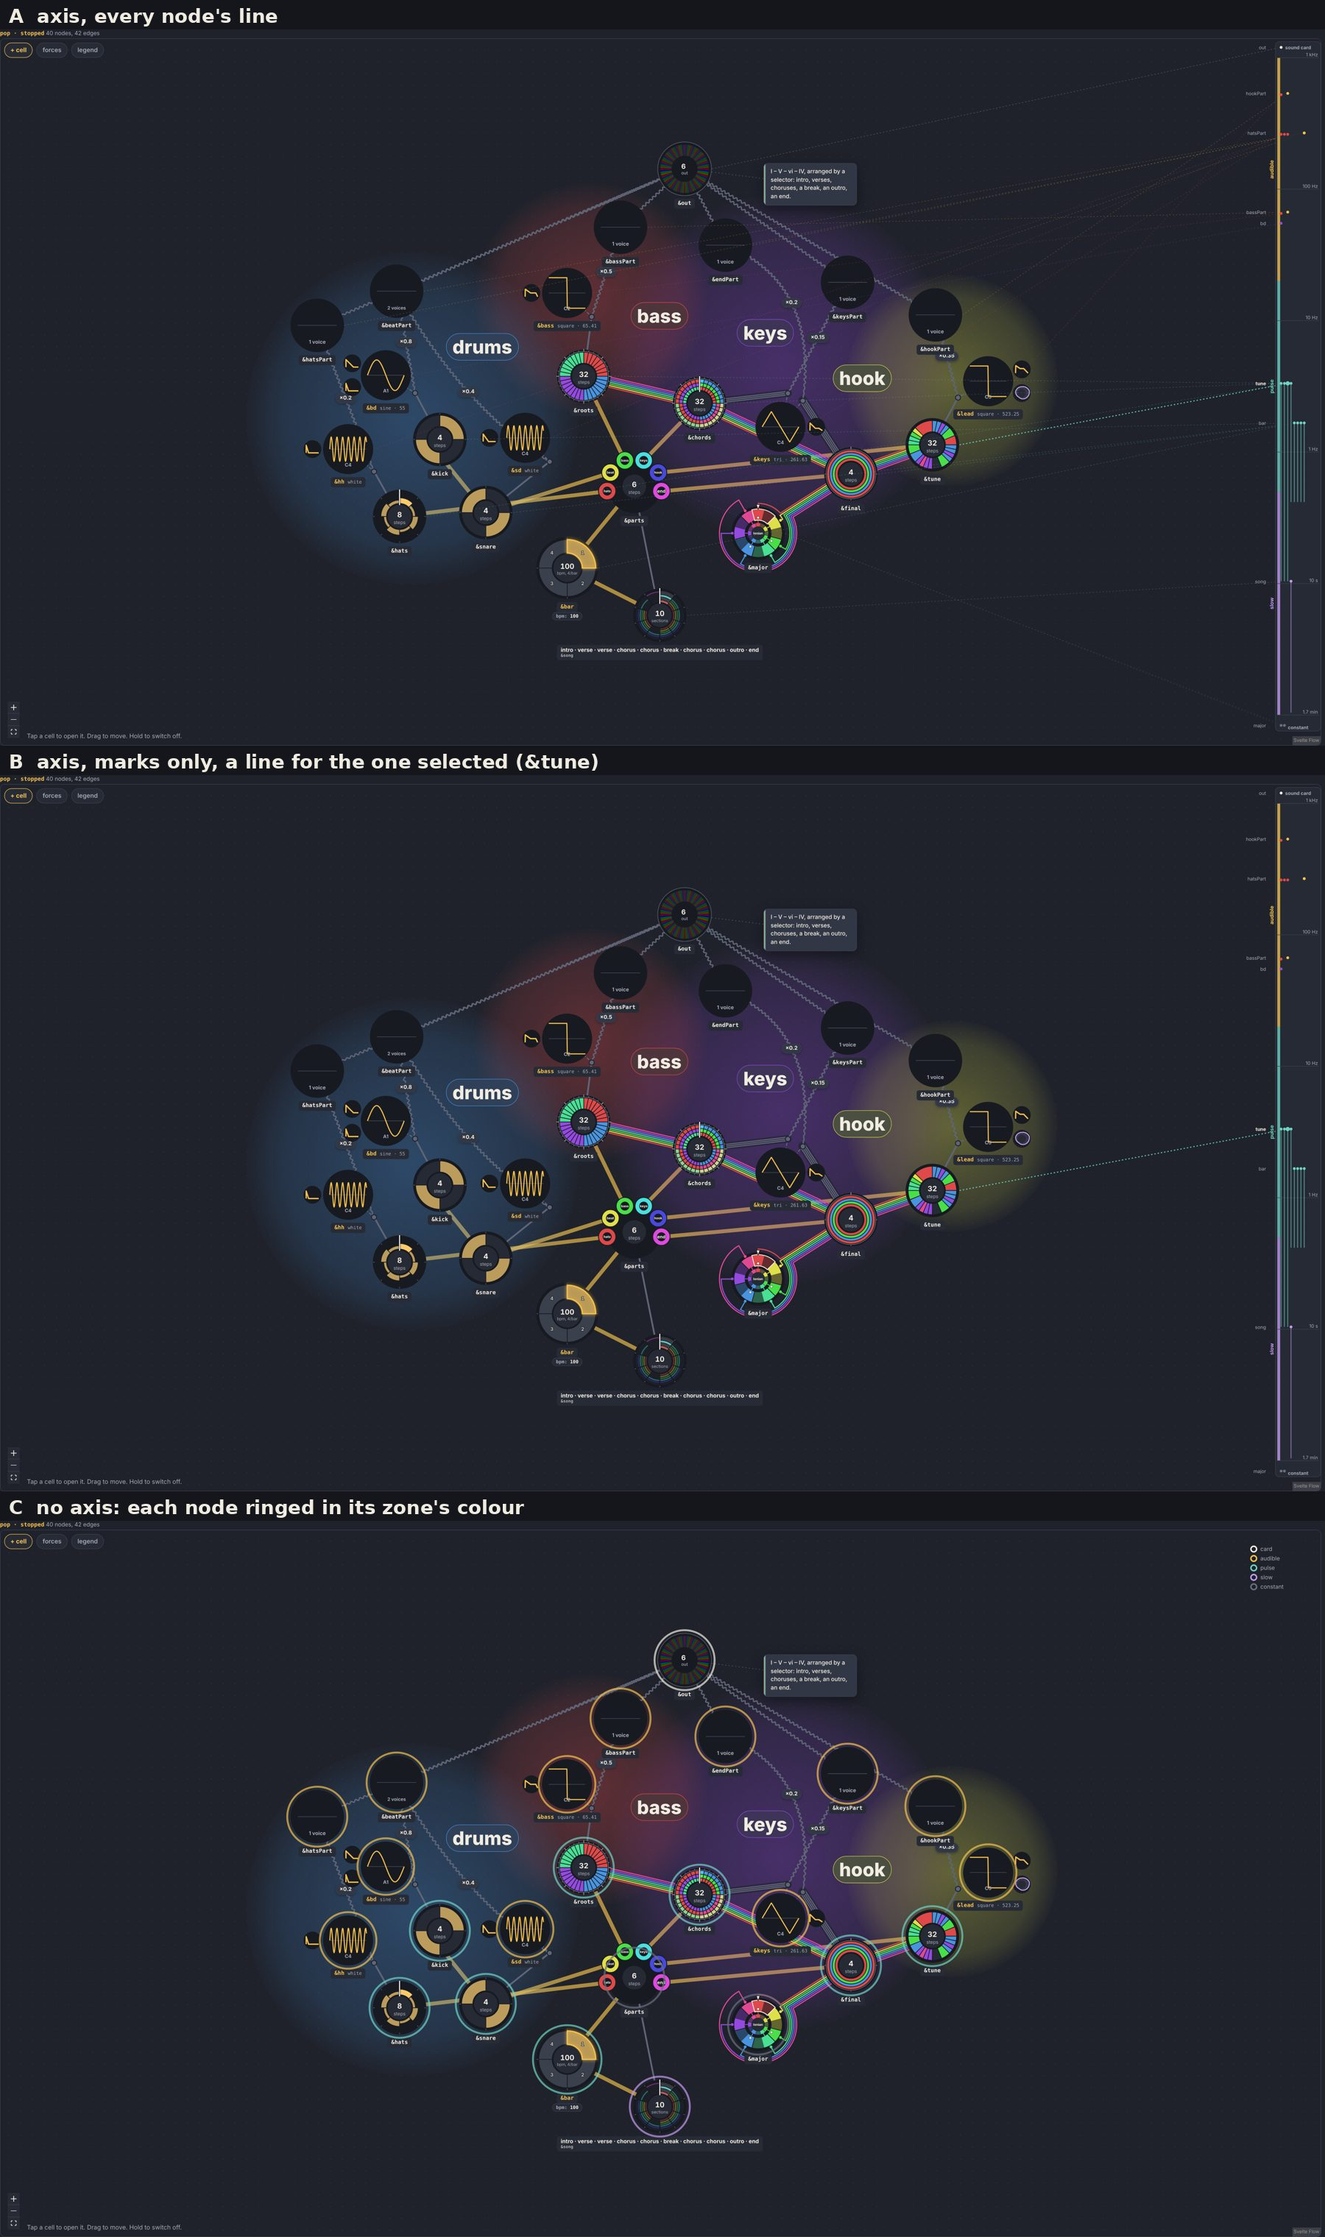
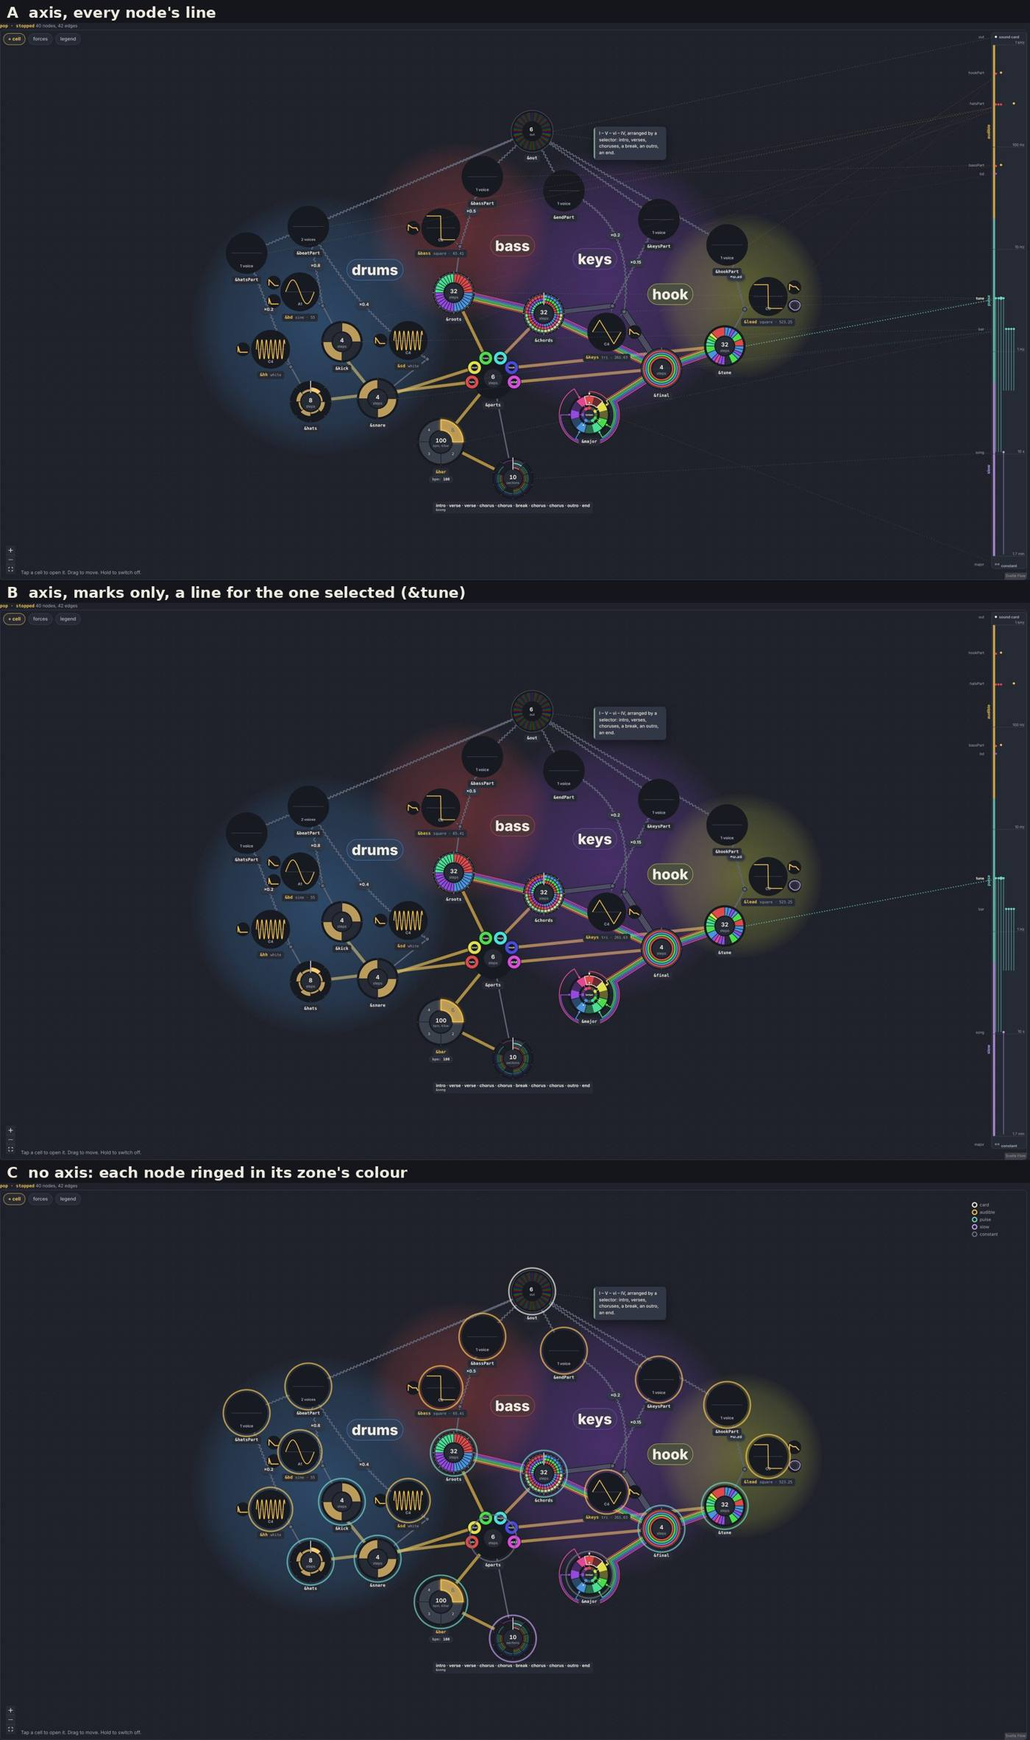
The tower beside the graph, not over it; left of a cell's card while one is open
From the review on #268. The flow's box stops at the strip, so no cell sits under it,
and the graph is framed again as the tower opens or closes; while a cell's card is open
on a wide screen the strip steps to the card's left edge, so the selected cell's line
shows when it is clicked. Also: periods of days read in days, colourOf by a map, the
EXAMPLE_ROWS comment back on its line, the options sheet at 193 KB, and the kit table's
limit documented.

Claude-Session: https://claude.ai/code/session_01WihZC6dgwXsB8pNgM6ywcF

diff --git a/src/ui/TowerAxis.svelte b/src/ui/TowerAxis.svelte
@@ -1,12 +1,20 @@
+<script lang="ts" module>
+  /** The axis's strip (px), and the names beside it: the width the graph leaves the tower. */
+  const AXIS = 96;
+  const NAMES = 64;
+  export const TOWER_WIDTH = AXIS + NAMES;
+</script>
+
 <script lang="ts">
   /**
    * The frequency tower drawn beside the graph (docs/notes/multiscale.md: the picture; lead 2): a logarithmic axis of time
    * at the graph's right edge, its zones marked (the constant, the slow, the pulse, the audible, the sound card), each
-   * node a mark at its height (a bar from its turn to its step), and a line from the cell selected to its mark. The
-   * layout is today's (docs/notes/tower-rows.md: rows by the tower cost crossings): height in the graph means nothing
+   * node a mark at its height (a bar from its turn to its step), and a line from the cell selected to its mark. Beside
+   * the graph (Graph.svelte leaves it `TOWER_WIDTH`), so it hides no cell; while a cell's card is open on a wide screen it
+   * steps to the card's left edge, so the line stays in sight. The layout is today's (docs/notes/tower-rows.md: rows by the tower cost crossings): height in the graph means nothing
    * here, the axis says it.
    */
-  import { useStore } from '@xyflow/svelte';
+  import type { Viewport } from '@xyflow/svelte';
   import type { CompileResult } from '../engine/program';
   import type { GraphModel } from '../engine/graph';
   import { cellId } from '../engine/ids';
@@ -14,11 +22,28 @@
   import { noteColour } from './theme';
   import type { FlowNode } from './types';
 
-  let { model, program, nodes, focus }: { model: GraphModel; program: CompileResult; nodes: readonly FlowNode[]; focus: string | null } = $props();
+  let {
+    model,
+    program,
+    nodes,
+    viewport,
+    focus,
+    carded,
+  }: { model: GraphModel; program: CompileResult; nodes: readonly FlowNode[]; viewport: Viewport; focus: string | null; carded: boolean } = $props();
 
-  const store = useStore();
   let w = $state(0);
   let h = $state(0);
+  let el = $state<HTMLDivElement>();
+  // a cell's card on a wide screen (CellSheet.svelte: 380 px, 16 px from the window's right): where it starts, here
+  let cardLeft = $state(Infinity);
+  $effect(() => {
+    void w;
+    if (!el || !carded || !matchMedia('(min-width: 900px)').matches) {
+      cardLeft = Infinity;
+      return;
+    }
+    cardLeft = innerWidth - 396 - el.getBoundingClientRect().left;
+  });
 
   const spans = $derived(towerSpans(program, model));
   // (a voice's petals, its envelope and the like, hang by it: no mark of their own)
@@ -28,12 +53,12 @@
     const finite = [...spans.values()].flatMap((s) => [s.at, s.lo]).filter(Number.isFinite);
     return { lo: Math.floor(Math.min(0, ...finite)), hi: Math.ceil(Math.max(3, ...finite)) };
   });
-  const AXIS = 96;
   const top = 40;
   const bottom = $derived(h - 64);
   // (the constant just under the axis, the sound card just over it)
   const yOf = (d: number) => (d === -Infinity ? bottom + 22 : d === Infinity ? top - 22 : bottom - ((d - range.lo) / Math.max(1, range.hi - range.lo)) * (bottom - top));
-  const x0 = $derived(w - AXIS);
+  // (the strip at the right edge, or left of the card while one is open over it)
+  const x0 = $derived(Math.max(NAMES, Math.min(w, cardLeft - 8) - AXIS));
 
   const zoneColour = (name: string) => (name === 'slow' ? 'var(--meter-2)' : name === 'pulse' ? 'var(--meter-1)' : 'var(--accent)');
   const zoneOf = (d: number) => (d === -Infinity ? 'constant' : d === Infinity ? 'card' : [...TOWER_ZONES].reverse().find((z) => d >= z.from)!.name);
@@ -50,13 +75,14 @@
     if (hz >= 1000) return `${hz / 1000} kHz`;
     if (hz >= 1) return `${hz} Hz`;
     const s = 1 / hz;
-    return s >= 3600 ? `${+(s / 3600).toPrecision(2)} h` : s >= 60 ? `${+(s / 60).toPrecision(2)} min` : `${s} s`;
+    return s >= 86400 ? `${+(s / 86400).toPrecision(2)} d` : s >= 3600 ? `${+(s / 3600).toPrecision(2)} h` : s >= 60 ? `${+(s / 60).toPrecision(2)} min` : `${s} s`;
   };
   const decades = $derived(Array.from({ length: range.hi - range.lo + 1 }, (_, i) => range.lo + i));
 
   // a voice by its pitch class (the palette's hue), the rest by its zone
+  const cells = $derived(new Map(model.nodes.map((n) => [n.id, n.cell])));
   const colourOf = (id: string, d: number) => {
-    const c = model.nodes.find((n) => n.id === id)?.cell;
+    const c = cells.get(id);
     if (c?.voice && c.freq > 0) return noteColour(((((Math.round(69 + 12 * Math.log2(c.freq / 440)) % 12) + 12) % 12) * 30) % 360);
     const z = zoneOf(d);
     return z === 'constant' ? 'var(--text-faint)' : z === 'card' ? 'var(--text)' : zoneColour(z);
@@ -77,7 +103,7 @@
     return out;
   });
   const marks = $derived.by(() => {
-    const vp = store.viewport;
+    const vp = viewport;
     return nodes.flatMap((n) => {
       const s = spans.get(n.id);
       const name = n.type === 'junction' || petals.has(n.id) ? null : n.id.replace(/^cell:/, '');
@@ -114,16 +140,18 @@
   const focusId = $derived(focus ? cellId(focus) : null);
 </script>
 
-<div class="tower" bind:clientWidth={w} bind:clientHeight={h}>
+<div class="tower" bind:this={el} bind:clientWidth={w} bind:clientHeight={h}>
   {#if w && h}
     <svg width={w} height={h} aria-hidden="true">
+      <!-- (its own ground: the names' gutter and the strip, beside the graph) -->
+      <rect class="ground" x={x0 - NAMES} y="0" width={NAMES + AXIS + Math.max(0, w - x0 - AXIS)} height={h} />
+      <rect class="strip" x={x0} y={top - 34} width={AXIS} height={bottom - top + 68} rx="8" />
       <!-- the line from the cell selected to its mark -->
       {#each marks as m (m.id)}
         {#if m.id === focusId}
           <line class="leader" x1={m.x + m.r} y1={m.y} x2={x0 + 12 + m.lane * 7} y2={m.at} stroke={m.colour} />
         {/if}
       {/each}
-      <rect class="strip" x={x0} y={top - 34} width={AXIS} height={bottom - top + 68} rx="8" />
       {#each zones as z (z.name)}
         <rect x={x0 + 4} y={z.y0} width="6" height={z.y1 - z.y0} fill={z.colour} opacity="0.8" />
         <text class="zone" transform="translate({x0 - 4} {(z.y0 + z.y1) / 2}) rotate(-90)" fill={z.colour}>{z.name}</text>
@@ -138,7 +166,7 @@
         {#if m.lo !== m.at}<line class="span" x1={x0 + 12 + m.lane * 7} x2={x0 + 12 + m.lane * 7} y1={m.lo} y2={m.at} stroke={m.colour} />{/if}
         <circle cx={x0 + 12 + m.lane * 7} cy={m.at} r={m.id === focusId ? 4.5 : 3} fill={m.colour} />
         {#if named.has(m.id) || m.id === focusId}
-          <text class="name" class:focus={m.id === focusId} x={x0 - 20} y={m.at + 4}>{m.name}</text>
+          <text class="name" class:focus={m.id === focusId} x={x0 - 14} y={m.at + 4}>{m.name}</text>
         {/if}
       {/each}
     </svg>
@@ -155,6 +183,9 @@
   svg {
     display: block;
     font-family: var(--font-ui);
+  }
+  .ground {
+    fill: var(--bg);
   }
   .strip {
     fill: color-mix(in oklab, var(--surface) 88%, transparent);

diff --git a/src/ui/Graph.svelte b/src/ui/Graph.svelte
@@ -28,13 +28,15 @@
   import ForcesPanel from './ForcesPanel.svelte';
   import { clusterDisc } from '../layout/clusters';
   import { EXAMPLES } from '../examples';
-  import TowerAxis from './TowerAxis.svelte';
+  import TowerAxis, { TOWER_WIDTH } from './TowerAxis.svelte';
+  import FlowViewport from './FlowViewport.svelte';
+  import type { Viewport } from '@xyflow/svelte';
 
-  // each example's rows' order, chosen when the app was built (tools/examples-index.ts), by its graph's shape
   // (?tower: the tower open from the start, ?towerCell=tune its line, as if selected: the gallery's pictures)
   const QUERY = typeof location !== 'undefined' ? new URLSearchParams(location.search) : null;
   const towerCell = QUERY?.get('towerCell') ?? null;
 
+  // each example's rows' order, chosen when the app was built (tools/examples-index.ts), by its graph's shape
   const EXAMPLE_ROWS = new Map(EXAMPLES.map((e) => [e.rows.key, e.rows.order]));
 
   let {
@@ -204,6 +206,9 @@
   let legendOpen = $state(false);
   // the frequency tower beside the graph (TowerAxis.svelte)
   let towerOpen = $state(QUERY?.has('tower') ?? false);
+  // (the flow's pan and zoom, for the tower drawn beside it; framed again when the tower opens or closes)
+  let viewport = $state<Viewport>({ x: 0, y: 0, zoom: 1 });
+  let towerFits = $state(0);
 
   // clusters: the tags cells carry inside the piece (not the card's) — where their members are, now
   const clusters = $derived.by(() => {
@@ -262,48 +267,51 @@
   });
 </script>
 
-<div class="graph">
-  <SvelteFlow
-    bind:nodes={layout.nodes}
-    bind:edges={layout.edges}
-    {nodeTypes}
-    {edgeTypes}
-    nodeOrigin={[0.5, 0.5]}
-    nodesConnectable={false}
-    elementsSelectable={false}
-    onbeforedelete={async () => false}
-    colorMode="dark"
-    minZoom={0.15}
-    maxZoom={2.5}
-    onnodedragstart={({ targetNode }) => {
-      if (targetNode) layout.dragStart(targetNode.id, targetNode.position.x, targetNode.position.y);
-    }}
-    onnodedrag={({ targetNode }) => {
-      if (targetNode) layout.drag(targetNode.id, targetNode.position.x, targetNode.position.y);
-    }}
-    onnodedragstop={({ targetNode }) => {
-      if (targetNode) layout.dragEnd(targetNode.id);
-    }}
-    nodeClickDistance={6}
-    onnodeclick={({ node, event }) => {
-      // (a product's junction is not a cell: nothing to open; a bulb on a wheel is the cell it splices)
-      if (node.type !== 'junction') selected = bulbAt(event.target) ?? node.id;
-    }}
-  >
-    <Background gap={28} size={1.5} />
-    <Controls showLock={false} />
-    <FitView token={layout.fitToken} />
-    {#if towerOpen}
-      <TowerAxis model={shown.model} program={shown.program} nodes={layout.nodes} focus={selectedName ?? towerCell} />
-    {/if}
-    <!-- clusters: cells tagged alike inside the piece (tags=), washed and named behind their members -->
-    <ViewportPortal target="back">
-      {#each clusters as c (c.tag)}
-        <div class="cluster" style:left="{c.x}px" style:top="{c.y}px" style:width="{c.r * 2}px" style:height="{c.r * 2}px" style:--hue={c.colour}></div>
-        <div class="cluster-name" style:left="{c.nx}px" style:top="{c.ny}px" style:--hue={c.colour}>{c.tag}</div>
-      {/each}
-    </ViewportPortal>
-  </SvelteFlow>
+<div class="graph" class:towered={towerOpen} style:--tower-width="{TOWER_WIDTH}px">
+  <div class="flow">
+    <SvelteFlow
+      bind:nodes={layout.nodes}
+      bind:edges={layout.edges}
+      {nodeTypes}
+      {edgeTypes}
+      nodeOrigin={[0.5, 0.5]}
+      nodesConnectable={false}
+      elementsSelectable={false}
+      onbeforedelete={async () => false}
+      colorMode="dark"
+      minZoom={0.15}
+      maxZoom={2.5}
+      onnodedragstart={({ targetNode }) => {
+        if (targetNode) layout.dragStart(targetNode.id, targetNode.position.x, targetNode.position.y);
+      }}
+      onnodedrag={({ targetNode }) => {
+        if (targetNode) layout.drag(targetNode.id, targetNode.position.x, targetNode.position.y);
+      }}
+      onnodedragstop={({ targetNode }) => {
+        if (targetNode) layout.dragEnd(targetNode.id);
+      }}
+      nodeClickDistance={6}
+      onnodeclick={({ node, event }) => {
+        // (a product's junction is not a cell: nothing to open; a bulb on a wheel is the cell it splices)
+        if (node.type !== 'junction') selected = bulbAt(event.target) ?? node.id;
+      }}
+    >
+      <Background gap={28} size={1.5} />
+      <Controls showLock={false} />
+      <FitView token={layout.fitToken + towerFits} />
+      {#if towerOpen}<FlowViewport onchange={(v) => (viewport = v)} />{/if}
+      <!-- clusters: cells tagged alike inside the piece (tags=), washed and named behind their members -->
+      <ViewportPortal target="back">
+        {#each clusters as c (c.tag)}
+          <div class="cluster" style:left="{c.x}px" style:top="{c.y}px" style:width="{c.r * 2}px" style:height="{c.r * 2}px" style:--hue={c.colour}></div>
+          <div class="cluster-name" style:left="{c.nx}px" style:top="{c.ny}px" style:--hue={c.colour}>{c.tag}</div>
+        {/each}
+      </ViewportPortal>
+    </SvelteFlow>
+  </div>
+  {#if towerOpen}
+    <TowerAxis model={shown.model} program={shown.program} nodes={layout.nodes} {viewport} focus={selectedName ?? towerCell} carded={!!selectedName} />
+  {/if}
   <div class="toolbar">
     <button class="add-cell" onclick={onadd} title="Add a cell (blank: the chromatic default)">+ cell</button>
     <button class="forces-toggle" class:on={forcesOpen} onclick={() => (forcesOpen = !forcesOpen)} aria-pressed={forcesOpen} title="Layout forces">forces</button>
@@ -312,7 +320,10 @@
     <button
       class="forces-toggle"
       class:on={towerOpen}
-      onclick={() => (towerOpen = !towerOpen)}
+      onclick={() => {
+        towerOpen = !towerOpen;
+        towerFits++;
+      }}
       aria-pressed={towerOpen}
       title="Each cell's time scale, from the constant to the audible">tower</button
     >
@@ -350,6 +361,17 @@
     position: relative;
     width: 100%;
     height: 100%;
+  }
+  .flow {
+    position: absolute;
+    inset: 0;
+  }
+  /* (the tower takes its strip beside the graph: nothing is laid under it) */
+  .graph.towered .flow {
+    right: var(--tower-width);
+  }
+  .graph.towered .hint {
+    right: calc(var(--tower-width) + 16px);
   }
   .hint {
     position: absolute;

diff --git a/src/ui/FlowViewport.svelte b/src/ui/FlowViewport.svelte
@@ -1,0 +1,8 @@
+<script lang="ts">
+  /** Hands the flow's viewport (pan and zoom) to what is drawn outside the flow: the tower beside it (TowerAxis.svelte). */
+  import { useStore, type Viewport } from '@xyflow/svelte';
+
+  let { onchange }: { onchange: (v: Viewport) => void } = $props();
+  const store = useStore();
+  $effect(() => onchange({ ...store.viewport }));
+</script>

diff --git a/docs/ui/graph.md b/docs/ui/graph.md
@@ -18,7 +18,7 @@ The code is the single source of truth. The graph draws exactly the cells and li
 - **A wheel turns; its taps stay** (`cellView`, `CellGlyph`): its inner ring turns with `shift=` (a braid's steps, a table's entries), the entry now first under a marker fixed at 12 o'clock, outlined. A table's **taps** sit on a ring just outside it (`wheelGeometry().rTap`), one per entry, drawn whether anything reads them or not: they ride their entries, spaced by pitch (the default, the table's pattern), or stay put, evenly round (`show=equal`). A table that takes some of the slots of the table below (a mode of its key, a scale of the 12) shows what comes in at its **hub** — the slots as the table below pushes them, the ones it takes lit — and the **gear**, a wire from each slot taken out to its entry; they turn with the ring. The sheet draws the same wheel, larger, and edits on it.
 - **The loom** (`loomPaths`): a wheel's strands leave their taps along the radius onto tracks of their own round it and off towards their reader, nested so none cross — a ring round the source. Each bus from a wheel takes a band of its one loom (`loomRings`, the larger inside; a table read by several leaves it once). A strand carries what its source pushes (its entry, turned as it stands), whatever the reader takes of it. A pick (`&key[0]`) is a strand from its tap, straight out; several from one reader are a bus; a `$` pick is a wire from the hub with its label ([decision 012](../decisions/012-picks-are-taps.md)).
 - While playing, every table a note passes through lights the entry it used.
-- **The tower** (the *tower* button; [multiscale.md](../notes/multiscale.md), [tower-rows.md](../notes/tower-rows.md)): a logarithmic axis of time at the graph's right edge, from the constant (a table nothing steps) at the bottom through the slow (under 0.5 Hz), the pulse and the audible (from 20 Hz) to the sound card on top, its decades labelled as periods below 1 Hz and as frequencies above. Each cell is a mark at its height: a clocked cell a bar from its turn (how often it comes round) up to its step (how often it moves), so nesting shows; a voice at its pitch, in its colour; a mix just above the sound it carries (`towerSpans`, `src/layout/tower.ts`). The cell selected gets a line to its mark and its name. The layout stays the signal path's: the axis, not a cell's height in the graph, says its time.
+- **The tower** (the *tower* button; [multiscale.md](../notes/multiscale.md), [tower-rows.md](../notes/tower-rows.md)): a logarithmic axis of time at the graph's right edge, from the constant (a table nothing steps) at the bottom through the slow (under 0.5 Hz), the pulse and the audible (from 20 Hz) to the sound card on top, its decades labelled as periods below 1 Hz and as frequencies above. Each cell is a mark at its height: a clocked cell a bar from its turn (how often it comes round) up to its step (how often it moves), so nesting shows; a voice at its pitch, in its colour; a mix just above the sound it carries (`towerSpans`, `src/layout/tower.ts`). The axis sits beside the graph (the graph is framed again in what is left, so it hides no cell), and while a cell's card is open on a wide screen it steps to the card's left edge, so the selected cell's line and name stay in sight. The layout stays the signal path's: the axis, not a cell's height in the graph, says its time. Limits: a table with no clock of its own (a table of taps, `&parts`; a kit, `&clicks`) sits at the constant, though what reads it moves it; on a phone the strip takes the same width (160 px), and a cell's card covers it.
 - **Edges have no colours of their own**: at rest they are the neutral `--edge`; live, each takes the colour of what it carries now, by the palette ([theme.md](theme.md)): a melody or a ref the note under the playhead on its grid, a level (an envelope, a gain, `lpf=`) the neutral hue as bright as the level, a step the level of the tick (dotted, `--meter-0` on the bar's first), sound the hue of its fundamental (a mix's sound carries several: neutral). The pulse dot is its edge's colour. A belt is the clock's tick, brighter as it pulls; a meter's net is its meter's colour, flashing to the tick's level on each step; an `about=` link is never live.
 - The playhead is white with a dark edge on every wheel, against the colours of what is live. An envelope (`show=adsr`) names its values on its curve from 112 px up (A 3 ms, D 180 ms, S 10 %, R 60 ms); in a braid's sheet a written number shows to three figures.
 - A played braid's moving shift is its playhead; a restarted part's playhead shows the global clock (see [../limits.md](../limits.md)).

diff --git a/docs/notes/tower-rows.md b/docs/notes/tower-rows.md
@@ -84,7 +84,9 @@ The owner's choice after the re-measure: **the tower as a drawn axis**, today's 
 
 **Chosen: B** (2026-10-10), built as the graph's *tower* button ([graph.md](../ui/graph.md)); A and C were dropped. The gallery opens it with `TOWER=1` (`TOWER_CELL=tune`: its line, as if selected).
 
-Seen on the way: a table of taps (`&parts`) sits at the constant, though its selector moves it: it has no clock of its own.
+Seen on the way: a table with no clock of its own sits at the constant, though what reads it moves it: a table of taps (`&parts`, its selector), a kit (Metronome's `&clicks`, read over `&bar`).
+
+After review (#268): the axis sits beside the graph, not over it (the flow's box stops at it, so it hides no cell), and steps to the left edge of a cell's card while one is open, so the selected cell's line is seen when it is clicked, not only through `?towerCell=`.
 
 ## Next
 
